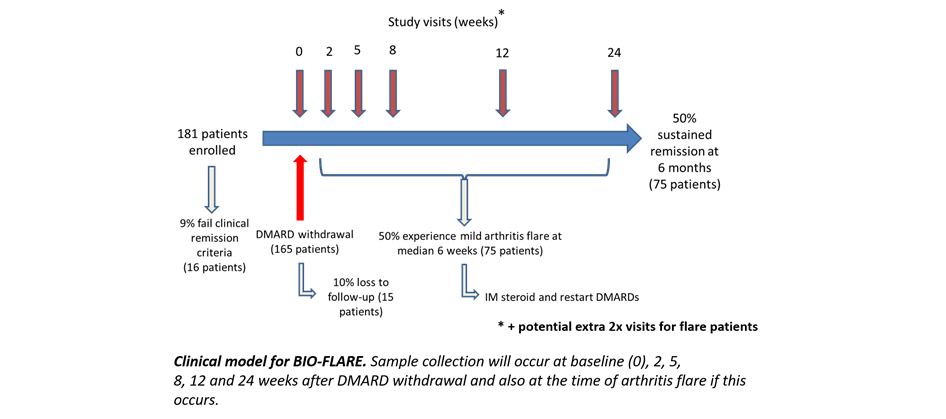
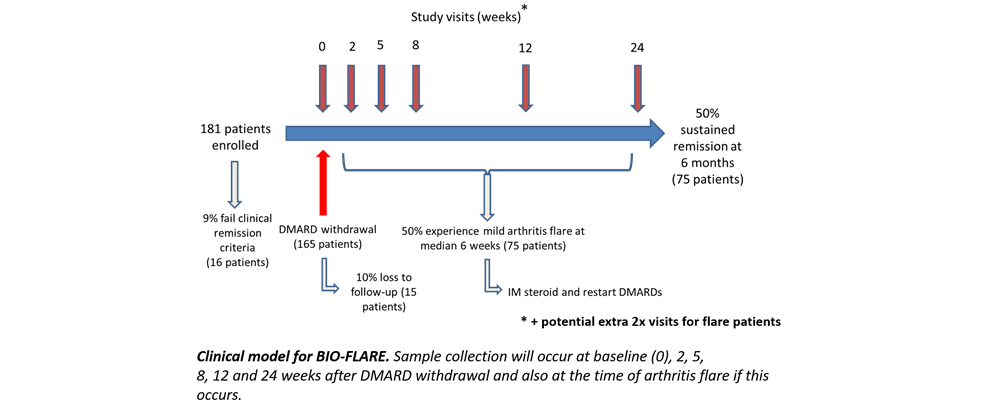
Add files via upload

diff --git a/index.html b/index.html
@@ -61,7 +61,7 @@
 							</li>							
 						<li>
 							<div class="dropdown">
-								<button class="dropbtn"><a href="https://blogs.ncl.ac.uk/adamleckenby/" target="_blank">News</a>
+								<button class="dropbtn"><a href="https://twitter.com/Racegbn" target="_blank">News</a>
 								</button>
 									<div class="dropdown-content">
 									</div>
@@ -214,15 +214,15 @@ window.onresize = function(event) {
 							</div>
 
 							<div id="BF1" class="tabcontent">
-							  <p style="text-align:left;"> <br />BIO-FLARE stands for Biological Factors that Limit Sustained Remission in Rheumatoid Arthritis. BIO-FLARE is a research study that has been set up between Newcastle University, the University of Birmingham and the University of Glasgow. It aims to find out more about what happens in flare in rheumatoid arthritis. <br> <br> <br> <br> <br> <br> </p>
+							  <p style="text-align:left;"> <br />BIO-FLARE stands for Biological Factors that Limit Sustained Remission in Rheumatoid Arthritis. BIO-FLARE is a research study that has been set up between Newcastle University, the University of Birmingham and the University of Glasgow. It aims to find out more about what happens in flare in rheumatoid arthritis. <br> <br> <br> <br> <br> <br> <br></p>
 							</div>
 
 							<div id="BF2" class="tabcontent desktoponly">
-							  <p style="text-align:left;"> <br />BIO-FLARE is a research study that aims to find out more about flare in rheumatoid arthritis. If more is known about what triggers flare in RA, then more can be done to try and prevent it, and to identify which patients are more prone to flare than others. We also hope to identify which patients would be at a lower risk of flaring if they were to stop their medications.  <br> <br> <br> <br> <br> </p>
+							  <p style="text-align:left;"> <br />BIO-FLARE is a research study that aims to find out more about flare in rheumatoid arthritis. If more is known about what triggers flare in RA, then more can be done to try and prevent it, and to identify which patients are more prone to flare than others. We also hope to identify which patients would be at a lower risk of flaring if they were to stop their medications.  <br> <br> <br> <br> <br> <br> </p>
 							</div>
 
 							<div id="BF3" class="tabcontent desktoponly">
-							  <p style="text-align:left;"><br />Rheumatoid arthritis is characterised by periods of inactivity, where the disease is relatively well controlled, and periods of flare, when the disease is very active and many joints are painful. This can be very unpredictable and frustrating for patients as they cannot predict how they will feel from day to day and week to week. <br> <br> <br> <br> <br> <br> </p>
+							  <p style="text-align:left;"><br />Rheumatoid arthritis is characterised by periods of inactivity, where the disease is relatively well controlled, and periods of flare, when the disease is very active and many joints are painful. This can be very unpredictable and frustrating for patients as they cannot predict how they will feel from day to day and week to week. <br> <br> <br> <br> <br> <br> <br> </p>
 							</div>
 
 							<div id="BF4" class="tabcontent desktoponly">
@@ -230,7 +230,7 @@ window.onresize = function(event) {
 							  </div>
 							  
 							<div id="BF5" class="tabcontent desktoponly">
-							  <p style="text-align:left;"> <br />Patients with rheumatoid arthritis that is stable and in remission who wish to be involved in the study will be identified by their rheumatology team. They will be invited to discuss the study with a member of the research team who will give them more information and answer their questions. The study is run from 3 centres in the UK – Newcastle, Birmingham and Glasgow. <br> <br> <br> <br> <br> </p>
+							  <p style="text-align:left;"> <br />Patients with rheumatoid arthritis that is stable and in remission who wish to be involved in the study will be identified by their rheumatology team. They will be invited to discuss the study with a member of the research team who will give them more information and answer their questions. The study is run from 3 centres in the UK – Newcastle, Birmingham and Glasgow. <br>  <br><br> <br> <br> <br> </p>
 							  </div>
 							  
 							<script>
@@ -292,7 +292,7 @@ window.onresize = function(event) {
 			<!-- Three -->
 			<section id="three" class="main style2 right dark fullscreen">
 			<div class="main style2 primary">
-				<div class="content3 box">
+				<div class="content3_fix box">
 									<header>
 						<h3 style="text-align:center;">For the Clinician</h3>
 					</header>
@@ -350,7 +350,7 @@ window.onresize = function(event) {
 							</div>
 
 							<div id="CI1" class="tabcontent2">
-							  <p style="text-align:left;"> <br />BIO-FLARE stands for Biological Factors that Limit Sustained Remission in Rheumatoid Arthritis. It is a non-randomised longitudinal cohort study looking into the pathogenesis of flare in rheumatoid arthritis. It is a multi-centre study designed in a Hub-and-Spoke model. There are three regional hubs (Newcastle, Birmingham and Glasgow), each of which will be associated with spoke research sites located at local NHS Trusts. <br> <br><br> <br><br> </p>
+							  <p style="text-align:left;"> <br />BIO-FLARE stands for Biological Factors that Limit Sustained Remission in Rheumatoid Arthritis. It is a non-randomised longitudinal cohort study looking into the pathogenesis of flare in rheumatoid arthritis. It is a multi-centre study designed in a Hub-and-Spoke model. There are three regional hubs (Newcastle, Birmingham and Glasgow), each of which will be associated with spoke research sites located at local NHS Trusts. <br> <br><br>  <br><br><br> </p>
 							</div>
 
 							<div id="CI2" class="tabcontent2 desktoponly">
@@ -365,13 +365,15 @@ window.onresize = function(event) {
 									  <li>Synovium, including stromal cell subtypes</li>
 									  <li>Metabolic profiles related to immune and/or synovial activation (with the Phenome Centre)</li>
 									  <li>Epigenetics profiles (partnering with Oxford Biodynamics) </li>
+									   <br>
 									</ul>
 									<br> 
 							  </p>
 							</div>
 
-							<div id="CI4" class="tabcontent2">
-							  <img style="    display: block;    margin-left: auto;    margin-right: auto;    width: 100%;" src="images/studyoverview.png" alt="Study Overview">
+							<div id="CI4" class="tabcontent2 desktoponly">
+							  <p style="text-align:left;"> An overview of the study sampling is shown below </p>
+							  <img src="images/studyoverview.png" alt="Study Overview" style="  object-fit: contain; display: block; height:100%; width:100%;">
 							  </div>
 
 							  
@@ -395,7 +397,7 @@ window.onresize = function(event) {
 							</script>
 				</div>
 			</div>
-				<div class="content box style2 desktoponly">
+				<div class="content box style2 desktoponly" style="max-width:30em;">
 					<iframe src="images/Choropleth.html" width="550" height="650">
 					</iframe>
 				</div>

diff --git a/assets/css/main.css b/assets/css/main.css
@@ -2018,6 +2018,32 @@
 				margin-left:0px;
 				margin-bottom:auto;
 				text-align: right;
+				min-width:40em;
+				max-width:120em;
+				min-height:30em;
+				max-height:30em;
+			}
+			
+			.main.style2 > .content3_fix {
+				-moz-transition: -moz-transform 1s ease;
+				-webkit-transition: -webkit-transform 1s ease;
+				-ms-transition: -ms-transform 1s ease;
+				transition: transform 1s ease;
+				-moz-transform: translateZ(0);
+				-webkit-transform: translateZ(0);
+				-ms-transform: translateZ(0);
+				transform: translateZ(0);
+				position: relative;
+				width: 100%;
+				margin-right:150px;
+				margin-top:auto;
+				margin-left:0px;
+				margin-bottom:auto;
+				text-align: right;
+				min-width:40em;
+				max-width:50em;
+				min-height:30em;
+				max-height:30em;
 			}
 
 			.main.style2 > .content4 {
